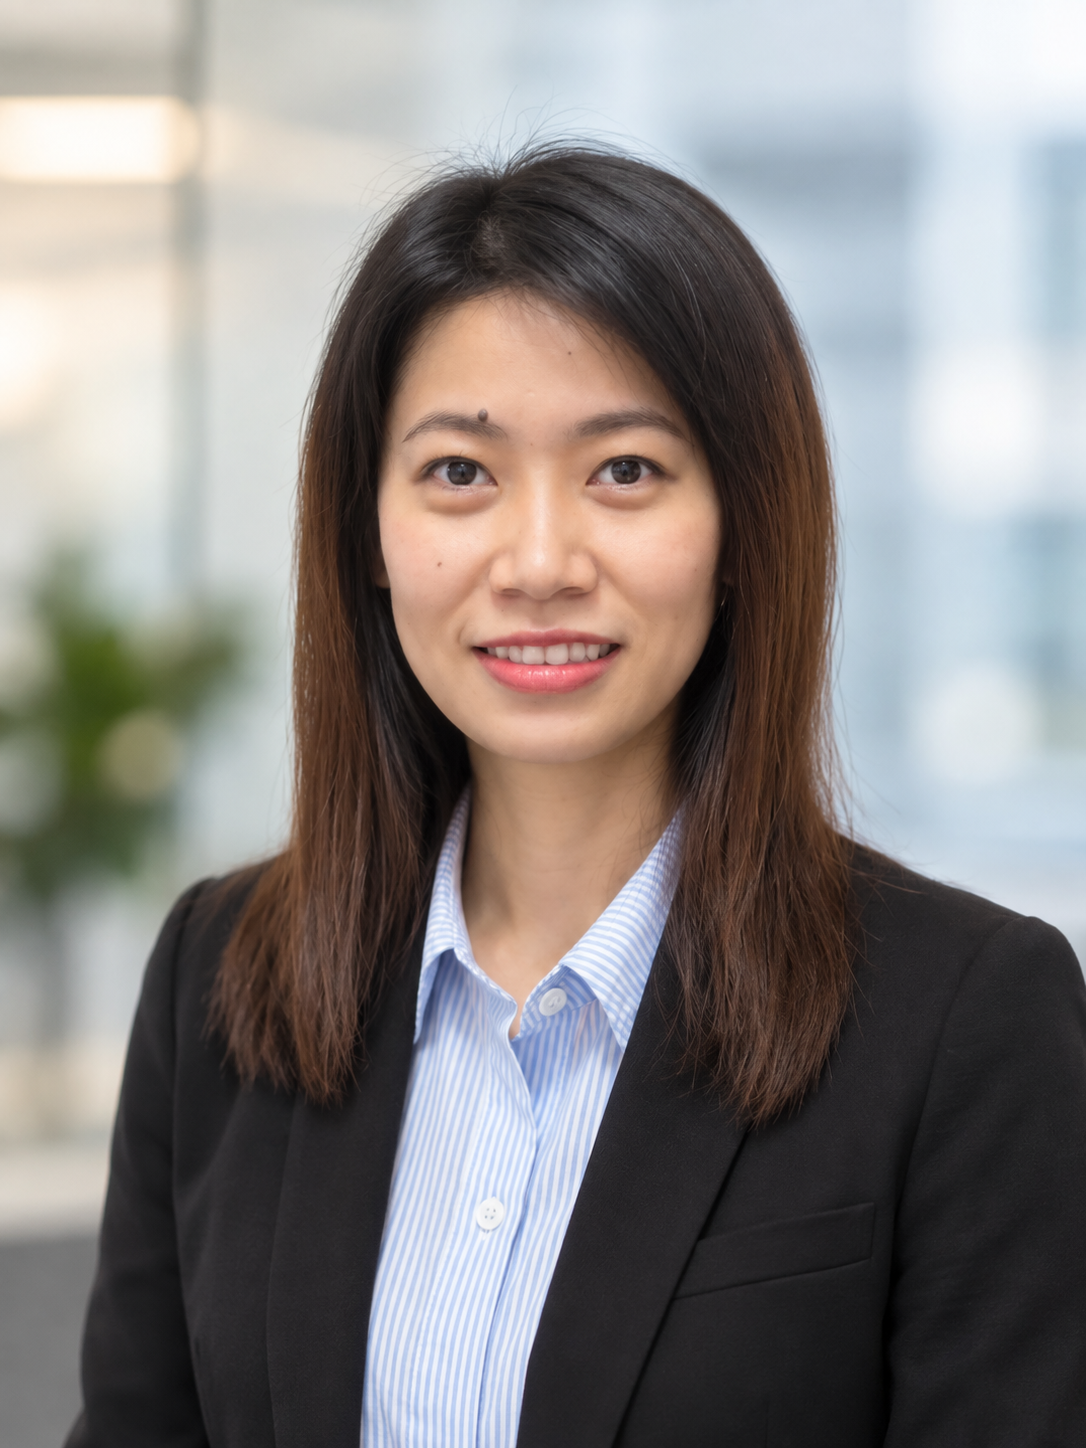
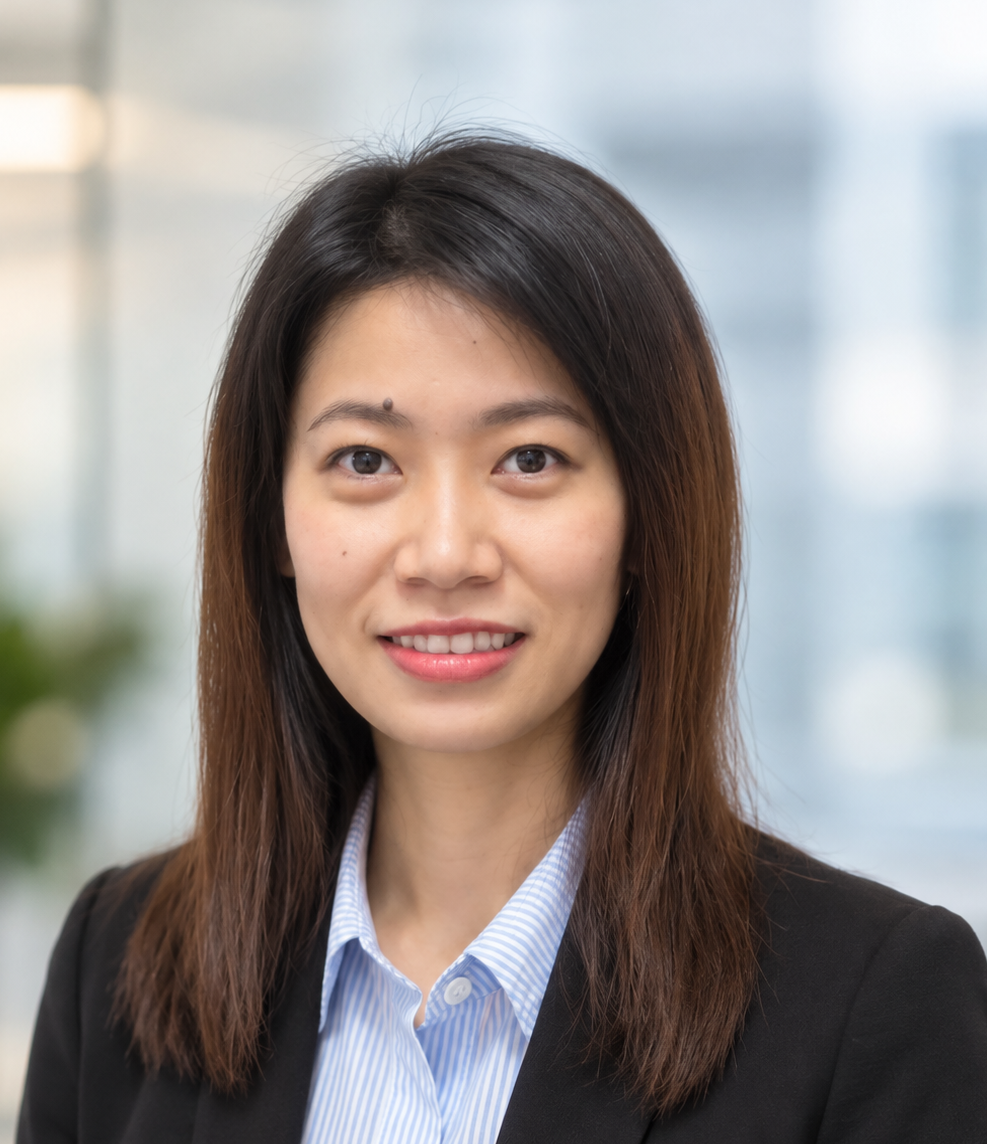
update small changes

diff --git a/index.html b/index.html
@@ -3,13 +3,13 @@
 <head>
   <meta charset="UTF-8" />
   <meta name="viewport" content="width=device-width, initial-scale=1.0" />
-  <title>Thin Sapal Yu - Software Engineer / AI &amp; Data Engineer</title>
-  <meta name="description" content="Portfolio of Thin Sapal Yu - Software Engineer / AI &amp; Data Engineer, transitioning from 10+ years of software engineering into AI &amp; Data Science. Seeking an internship from October 2026." />
+  <title>Thin Sapal Yu - Software Engineer / Data &amp; AI Engineer</title>
+  <meta name="description" content="Portfolio of Thin Sapal Yu - Software Engineer / Data &amp; AI Engineer, transitioning from 10+ years of software engineering into AI &amp; Data Science. Seeking an internship from October 2026." />
   <meta name="author" content="Thin Sapal Yu" />
 
   <!-- Open Graph / social preview -->
-  <meta property="og:title" content="Thin Sapal Yu - Software Engineer / AI &amp; Data Engineer" />
-  <meta property="og:description" content="Software Engineer / AI &amp; Data Engineer seeking an internship from October 2026. 10+ years of software engineering, now building intelligent, data-driven solutions." />
+  <meta property="og:title" content="Thin Sapal Yu - Software Engineer / Data &amp; AI Engineer" />
+  <meta property="og:description" content="Software Engineer / Data &amp; AI Engineer seeking an internship from October 2026. 10+ years of software engineering, now building intelligent, data-driven solutions." />
   <meta property="og:type" content="website" />
   <meta property="og:url" content="https://t-sapalyu.github.io/aboutme/" />
   <meta property="og:image" content="https://t-sapalyu.github.io/aboutme/assets/profile.png" />
@@ -127,7 +127,7 @@
     .btn-ghost { background: var(--surface); color: var(--text); border-color: var(--border); }
     .btn-ghost:hover { text-decoration: none; border-color: var(--accent); color: var(--accent); }
 
-    .avatar-wrap { position: relative; }
+    .avatar-wrap { position: relative; margin-right: 64px; }
     .avatar {
       width: 230px; height: 230px; border-radius: 24px; object-fit: cover;
       border: 1px solid var(--border); box-shadow: var(--shadow);
@@ -139,7 +139,7 @@
     }
     @media (max-width: 820px) {
       .hero-grid { grid-template-columns: 1fr; gap: 32px; }
-      .avatar-wrap { order: -1; }
+      .avatar-wrap { order: -1; margin-right: 0; }
       .avatar { width: 150px; height: 150px; }
     }
 
@@ -259,7 +259,7 @@
       <div>
         <span class="eyebrow"><span class="dot"></span> Open to internships - from Oct 2026</span>
         <h1>Thin Sapal Yu</h1>
-        <p class="role">Software Engineer <b>/</b> AI &amp; Data Engineer &nbsp;·&nbsp; Paris, France</p>
+        <p class="role">Software Engineer <b>/</b> Data &amp; AI Engineer &nbsp;·&nbsp; Paris, France</p>
         <div class="cta">
           <a class="btn btn-primary" href="#contact">
             <svg class="icon" viewBox="0 0 24 24"><path d="M20 4H4a2 2 0 0 0-2 2v12a2 2 0 0 0 2 2h16a2 2 0 0 0 2-2V6a2 2 0 0 0-2-2zm0 4-8 5-8-5V6l8 5 8-5v2z"/></svg>
@@ -645,7 +645,7 @@
     <div class="wrap">
       <div class="card contact-card">
         <h2>Let's build something intelligent</h2>
-        <p>I'm looking for a Software Engineer / AI &amp; Data Engineer internship starting October 2026. Feel free to reach out.</p>
+        <p>I'm looking for a Software Engineer / Data &amp; AI Engineer internship starting October 2026. Feel free to reach out.</p>
         <div class="contact-links">
           <a class="btn btn-primary" href="mailto:thinsapalyu@gmail.com">
             <svg class="icon" viewBox="0 0 24 24"><path d="M20 4H4a2 2 0 0 0-2 2v12a2 2 0 0 0 2 2h16a2 2 0 0 0 2-2V6a2 2 0 0 0-2-2zm0 4-8 5-8-5V6l8 5 8-5v2z"/></svg>

diff --git a/README.md b/README.md
@@ -1,6 +1,6 @@
 # Thin Sapal Yu - Portfolio
 
-Personal portfolio site for **Thin Sapal Yu**, Software Engineer / AI & Data Engineer (internship from Oct 2026).
+Personal portfolio site for **Thin Sapal Yu**, Software Engineer / Data & AI Engineer (internship from Oct 2026).
 
 🔗 **Live site:** https://t-sapalyu.github.io/aboutme/
 
